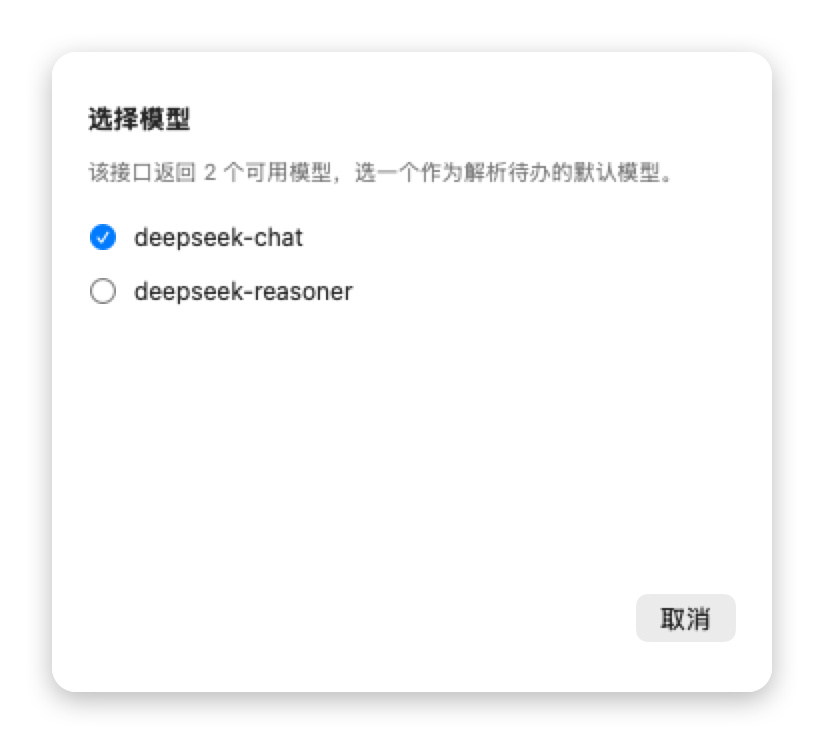
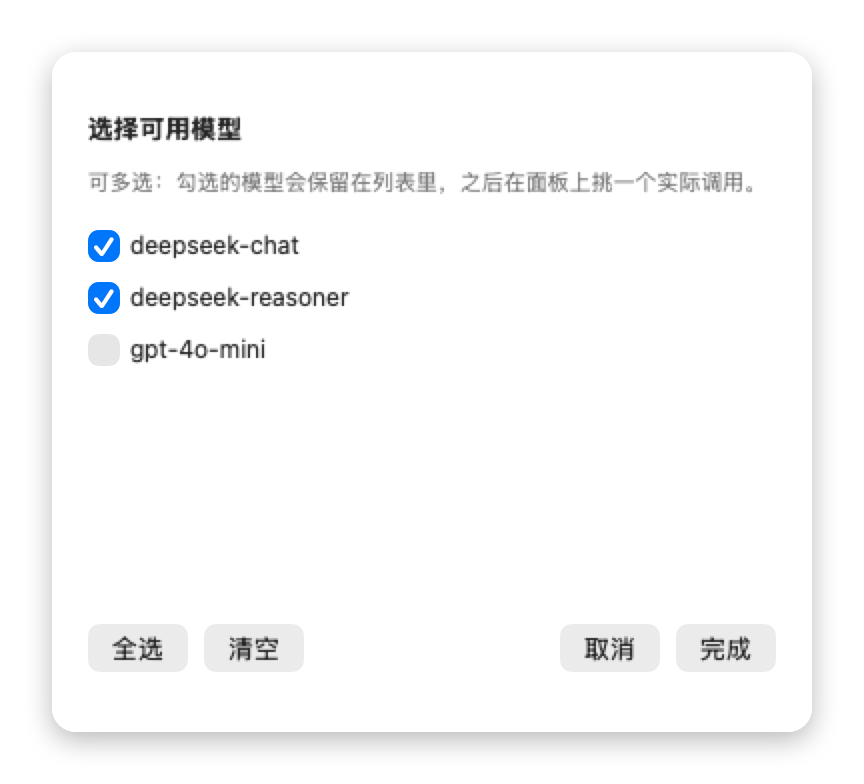
feat: 模型可多选并在面板上选定实际调用模型
- AIConfig 拆成 models（多选保留）+ model（当前调用）
- 设置页：Base URL → 模型提供商 → 调用模型（下拉）+ 管理模型（多选）
- 保存 Key 后弹出的选择框改为多选，支持全选/清空，完成即写入列表
- 面板模型菜单改为遍历多选列表，选中即设为当前调用模型
- 旧配置（无 models 字段）自动迁移为 [model]；model 不在列表时自动补入
- AIConfig 改为容错解码

diff --git a/Sources/SettingsView.swift b/Sources/SettingsView.swift
@@ -12,6 +12,7 @@ struct SettingsView: View {
     @State private var probeMessage: String?
     @State private var availableModels: [String] = []
     @State private var showModelChooser: Bool = false
+    @State private var selectedModels: Set<String> = []
 
     private var providerBinding: Binding<AIProvider> {
         Binding(
@@ -56,11 +57,10 @@ struct SettingsView: View {
         }
         .sheet(isPresented: $showModelChooser) {
             ModelChooser(
-                models: availableModels,
-                current: settings.settings.ai.model,
-                onPick: { picked in
-                    settings.settings.ai.model = picked
-                    probeMessage = "已选用 \(picked)"
+                models: availableModels.isEmpty ? settings.settings.ai.selectableModels : availableModels,
+                selected: $selectedModels,
+                onCommit: { picked in
+                    applySelectedModels(picked)
                     showModelChooser = false
                 },
                 onCancel: { showModelChooser = false }
@@ -90,23 +90,17 @@ struct SettingsView: View {
             }
 
             HStack(spacing: 8) {
-                Text("模型").font(.system(size: 12)).frame(width: 68, alignment: .leading)
-                if availableModels.isEmpty {
-                    TextField("deepseek-chat", text: modelBinding)
-                        .textFieldStyle(.roundedBorder)
-                        .font(.system(size: 12))
-                } else {
-                    Picker("", selection: modelBinding) {
-                        ForEach(availableModels, id: \.self) { model in
-                            Text(model).tag(model)
-                        }
+                Text("调用模型").font(.system(size: 12)).frame(width: 68, alignment: .leading)
+                Picker("", selection: modelBinding) {
+                    ForEach(settings.settings.ai.selectableModels, id: \.self) { model in
+                        Text(model).tag(model)
                     }
-                    .labelsHidden()
-                    .pickerStyle(.menu)
-                    .frame(width: 220)
                 }
-                Button(fetching ? "获取中…" : "获取可用模型") { refreshModels(showError: true) }
-                    .disabled(fetching || keyDraft.isEmpty)
+                .labelsHidden()
+                .pickerStyle(.menu)
+                .frame(width: 220)
+                Button("管理模型（多选）") { openModelManager() }
+                    .disabled(fetching)
                 Spacer()
             }
 
@@ -264,9 +258,46 @@ struct SettingsView: View {
             probeMessage = result.message
             availableModels = result.models
             if !result.models.isEmpty {
+                selectedModels = Set(settings.settings.ai.selectableModels.filter { result.models.contains($0) })
+                if selectedModels.isEmpty, let first = result.models.first { selectedModels = [first] }
                 showModelChooser = true
             }
         }
+    }
+
+    private func openModelManager() {
+        selectedModels = Set(settings.settings.ai.selectableModels)
+        if !availableModels.isEmpty {
+            showModelChooser = true
+            return
+        }
+        guard app.keyPresent else {
+            probeMessage = "先保存 API Key，才能拉取可选模型"
+            return
+        }
+        fetching = true
+        Task { @MainActor in
+            let result = await app.probeConnection()
+            fetching = false
+            probeMessage = result.message
+            availableModels = result.models
+            if !result.models.isEmpty {
+                selectedModels = Set(settings.settings.ai.selectableModels.filter { result.models.contains($0) })
+                if selectedModels.isEmpty, let first = result.models.first { selectedModels = [first] }
+                showModelChooser = true
+            }
+        }
+    }
+
+    private func applySelectedModels(_ picked: Set<String>) {
+        guard !picked.isEmpty else { return }
+        var ai = settings.settings.ai
+        let ordered = (availableModels.isEmpty ? ai.selectableModels : availableModels).filter { picked.contains($0) }
+        guard !ordered.isEmpty else { return }
+        ai.models = ordered
+        if !ordered.contains(ai.model) { ai.model = ordered[0] }
+        settings.settings.ai = ai
+        probeMessage = "已保留 " + String(ordered.count) + " 个模型，当前调用 " + ai.model
     }
 
     private func refreshModels(showError: Bool) {
@@ -290,40 +321,43 @@ struct SettingsView: View {
 
 struct ModelChooser: View {
     let models: [String]
-    let current: String
-    let onPick: (String) -> Void
+    @Binding var selected: Set<String>
+    let onCommit: (Set<String>) -> Void
     let onCancel: () -> Void
 
     var body: some View {
         VStack(alignment: .leading, spacing: 12) {
-            Text("选择模型").font(.headline)
-            Text("该接口返回 \(models.count) 个可用模型，选一个作为解析待办的默认模型。")
+            Text("选择可用模型").font(.headline)
+            Text("可多选：勾选的模型会保留在列表里，之后在面板上挑一个实际调用。")
                 .font(.system(size: 11))
                 .foregroundColor(.secondary)
             ScrollView {
                 VStack(alignment: .leading, spacing: 0) {
                     ForEach(models, id: \.self) { model in
-                        Button { onPick(model) } label: {
-                            HStack(spacing: 8) {
-                                Image(systemName: model == current ? "checkmark.circle.fill" : "circle")
-                                    .foregroundColor(model == current ? .accentColor : .secondary)
-                                Text(model).font(.system(size: 12))
-                                Spacer()
+                        Toggle(isOn: Binding(
+                            get: { selected.contains(model) },
+                            set: { on in
+                                if on { selected.insert(model) } else { selected.remove(model) }
                             }
-                            .contentShape(Rectangle())
-                            .padding(.vertical, 6)
+                        )) {
+                            Text(model).font(.system(size: 12))
                         }
-                        .buttonStyle(.plain)
+                        .toggleStyle(.checkbox)
+                        .padding(.vertical, 5)
                     }
                 }
             }
-            .frame(height: 180)
-            HStack {
+            .frame(height: 190)
+            HStack(spacing: 8) {
+                Button("全选") { selected = Set(models) }
+                Button("清空") { selected = [] }
                 Spacer()
                 Button("取消", action: onCancel)
+                Button("完成") { onCommit(selected) }
+                    .disabled(selected.isEmpty)
             }
         }
         .padding(18)
-        .frame(width: 360)
+        .frame(width: 380)
     }
 }

diff --git a/Sources/Models.swift b/Sources/Models.swift
@@ -105,17 +105,40 @@ extension AIProvider {
 struct AIConfig: Codable, Equatable {
     var provider: AIProvider
     var baseURL: String
+    /// 当前实际调用的模型。
     var model: String
+    /// 设置页里多选保留的模型，面板上从中挑一个调用。
+    var models: [String]
     var timeout: TimeInterval
 
     init(provider: AIProvider = .deepseek,
          baseURL: String = AIProvider.deepseek.defaultBaseURL,
          model: String = AIProvider.deepseek.defaultModel,
+         models: [String]? = nil,
          timeout: TimeInterval = 60) {
         self.provider = provider
         self.baseURL = baseURL
         self.model = model
+        self.models = models ?? [model]
         self.timeout = timeout
+    }
+
+    init(from decoder: Decoder) throws {
+        let container = try decoder.container(keyedBy: CodingKeys.self)
+        provider = try container.decodeIfPresent(AIProvider.self, forKey: .provider) ?? .deepseek
+        baseURL = try container.decodeIfPresent(String.self, forKey: .baseURL) ?? AIProvider.deepseek.defaultBaseURL
+        let storedModel = try container.decodeIfPresent(String.self, forKey: .model) ?? AIProvider.deepseek.defaultModel
+        model = storedModel
+        let storedModels = try container.decodeIfPresent([String].self, forKey: .models) ?? []
+        models = storedModels.isEmpty ? (storedModel.isEmpty ? [AIProvider.deepseek.defaultModel] : [storedModel]) : storedModels
+        timeout = try container.decodeIfPresent(TimeInterval.self, forKey: .timeout) ?? 60
+    }
+
+    /// 面板可选的模型（列表为空时退回当前模型）。
+    var selectableModels: [String] {
+        let list = models.filter { !$0.trimmingCharacters(in: .whitespaces).isEmpty }
+        if !list.isEmpty { return list }
+        return model.isEmpty ? [] : [model]
     }
 
     /// 归一化到 <base>/chat/completions，base 允许带或不带 /v1。

diff --git a/Sources/AppController.swift b/Sources/AppController.swift
@@ -72,17 +72,18 @@ final class AppController: ObservableObject, TodoIngest {
         }
     }
 
-    func selectModel(_ provider: AIProvider, _ model: String) {
-        settings.applyProviderDefaults(provider)
-        settings.settings.ai.model = model
-        if !settings.settings.useRemoteModel {
-            settings.settings.useRemoteModel = true
-        }
+    /// 面板上选择本次调用哪个模型（多选列表里的一个）。
+    func useModel(_ name: String) {
+        var ai = settings.settings.ai
+        ai.model = name
+        if !ai.models.contains(name) { ai.models.append(name) }
+        settings.settings.ai = ai
+        settings.settings.useRemoteModel = true
         refreshKeyPresence()
         if keyPresent {
-            postStatus("已切换到 \(provider.displayName) · \(model)")
+            postStatus("已切换到 " + name)
         } else {
-            postStatus("已选 \(provider.displayName) · \(model)，还缺 \(provider.displayName) 的 API Key", isError: true)
+            postStatus("已选 " + name + "，还缺 " + ai.provider.displayName + " 的 API Key", isError: true)
         }
     }
 

diff --git a/Sources/TodoPanelView.swift b/Sources/TodoPanelView.swift
@@ -223,15 +223,18 @@ struct TodoPanelView: View {
 
     private var modelMenu: some View {
         Menu {
-            ForEach([AIProvider.deepseek, AIProvider.openai], id: \.self) { provider in
-                Section(provider.displayName) {
-                    ForEach(provider.knownModels, id: \.self) { model in
-                        Button(model) { app.selectModel(provider, model) }
+            let selectable = app.settings.settings.ai.selectableModels
+            if selectable.isEmpty {
+                Text("还没配置模型")
+            } else {
+                ForEach(selectable, id: \.self) { model in
+                    Button(model == app.settings.settings.ai.model ? "✓ " + model : model) {
+                        app.useModel(model)
                     }
                 }
             }
             Divider()
-            Button("自定义 / 更多设置…") { actions.openSettings() }
+            Button("更多设置…") { actions.openSettings() }
         } label: {
             HStack(spacing: 4) {
                 Circle()

diff --git a/Sources/SnapshotTool.swift b/Sources/SnapshotTool.swift
@@ -24,10 +24,10 @@ enum SnapshotTool {
             write(settings, size: NSSize(width: 520, height: 640), to: dir.appendingPathComponent("settings.png"))
 
             let chooser = ModelChooser(
-                models: ["deepseek-chat", "deepseek-reasoner"],
-                current: "deepseek-chat",
-                onPick: { _ in }, onCancel: {})
-            write(chooser, size: NSSize(width: 360, height: 320), to: dir.appendingPathComponent("model-chooser.png"))
+                models: ["deepseek-chat", "deepseek-reasoner", "gpt-4o-mini"],
+                selected: .constant(["deepseek-chat", "deepseek-reasoner"]),
+                onCommit: { _ in }, onCancel: {})
+            write(chooser, size: NSSize(width: 380, height: 340), to: dir.appendingPathComponent("model-chooser.png"))
         }
 
         NSLog("[snapshot] written to \(dir.path)")

diff --git a/Sources/Store.swift b/Sources/Store.swift
@@ -187,6 +187,10 @@ final class SettingsStore: ObservableObject {
             fixed.ai.baseURL = AIProvider.deepseek.defaultBaseURL
             fixed.ai.model = AIProvider.deepseek.defaultModel
         }
+        var list = fixed.ai.models.filter { !$0.trimmingCharacters(in: .whitespaces).isEmpty }
+        if list.isEmpty { list = [fixed.ai.model] }
+        if !list.contains(fixed.ai.model) { list.insert(fixed.ai.model, at: 0) }
+        fixed.ai.models = list
         return fixed
     }
 

diff --git a/README.md b/README.md
@@ -34,7 +34,7 @@ MIT License · 无第三方依赖 · 纯 Swift / AppKit + SwiftUI
 | 点面板外 / Esc | 收起 |
 | 底部输入框回车 | 手写填入，**添加时自动解析**出事项与截止时间后写入（无需额外按钮） |
 | ⌃⌥T / 「截图识别」 | 框选屏幕区域 → 本机 Vision 取字 → 自动解析 → 写入 |
-| 「截图识别」右侧的模型菜单 | 直接选模型（DeepSeek: deepseek-chat / deepseek-reasoner，OpenAI: gpt-4o-mini / gpt-4o / gpt-4.1-mini），选了即切预设与 Base URL |
+| 「截图识别」右侧的模型菜单 | 从设置里多选保留的模型列表中挑一个实际调用，选中即生效 |
 | 同一行的开关 | 「用 API 模型」：开=远端模型解析，关=本地规则解析；没填 Key 时标签会标「· 缺 Key」并仍走本地规则 |
 | 「⋯」 | 清除已完成 / 打开数据文件夹 / 退出 |
 
@@ -53,7 +53,8 @@ OpenAI 兼容协议（`POST <Base URL>/chat/completions`），三档预设：
 | 自定义 | 自填 | 自填 |
 
 - Key 存在 `~/Library/Application Support/Todolist/secrets/api-key-<provider>.key`，权限 0600，按预设分开存放。刻意不用钥匙串：ad-hoc 签名的应用每次重建签名都会变，会反复弹授权框。
-- 设置页顺序：Base URL → 模型提供商 → 模型。点「保存并测试」会请求 `GET <Base URL>/models`：既验证连通性，也把接口返回的模型列出来弹窗让你选；若接口不提供 `/models`，会退回一次对话探测并保留手填的模型名。
+- 设置页顺序：Base URL → 模型提供商 → 调用模型。点「保存并测试」会请求 `GET <Base URL>/models`：既验证连通性，也把接口返回的模型列出来让你**多选**；勾选的模型保留成列表，之后在面板上挑一个实际调用。若接口不提供 `/models`，会退回一次对话探测并保留手填的模型名。
+- 配置里 `models` 是多选列表、`model` 是当前调用项；旧版配置文件（只有单个 `model`）会被自动迁移成 `models: [model]`，当前模型若不在列表里也会自动补进去。
 - Key 只从剪贴板读入：点「粘贴」把剪贴板内容填进输入框；打开设置页时若输入框为空、剪贴板里像 Key（单行、长度合理），会自动填入等你确认。
 - **没有 Key 也能用**：自动降级为本地规则解析器（`MockAIService`），识别中文数字（「十点」「一点半」）、时间段（「上午九点到十点」取开始时刻）、相对日期（「明天」「下周三」「6月1日」），并把时间词从标题里剥干净。面板右下角圆点显示当前引擎（绿=远端模型，橙=本地规则）。
 - 提示词在 `Sources/AIPrompts.swift`，注入了当前日期时间、时区与星期，用于把相对时间换算成绝对时间；输出契约为严格 JSON。
@@ -96,7 +97,7 @@ Sources/
 | `panel.png` | 面板全态（今天/明天 与日期形式混排、无截止时间置底、已完成沉底、过期标红） |
 | `panel-empty.png` | 空列表态 |
 | `settings.png` | 设置窗全貌（Base URL → 模型提供商 → 模型，Key 保存并测试 / 显示 / 复制） |
-| `model-chooser.png` | 保存 Key 后弹出的可用模型选择框 |
+| `model-chooser.png` | 保存 Key 后弹出的可用模型多选框（全选/清空/完成） |
 
 行为与链路验证：悬停开/合（真实光标移动，`[panel] open pinned=false` → `close`）、快捷键 `RegisterEventHotKey` 返回 true、本地假模型服务器上的真实 HTTP 往返（请求头/模型名/提示词注入日期均核对）、todos.json 落盘回读、错误分支（不可达地址 / 空 Key / 非 JSON），以及用真实系统截图跑通 `ScreenOCRService.recognizeText`。
 
